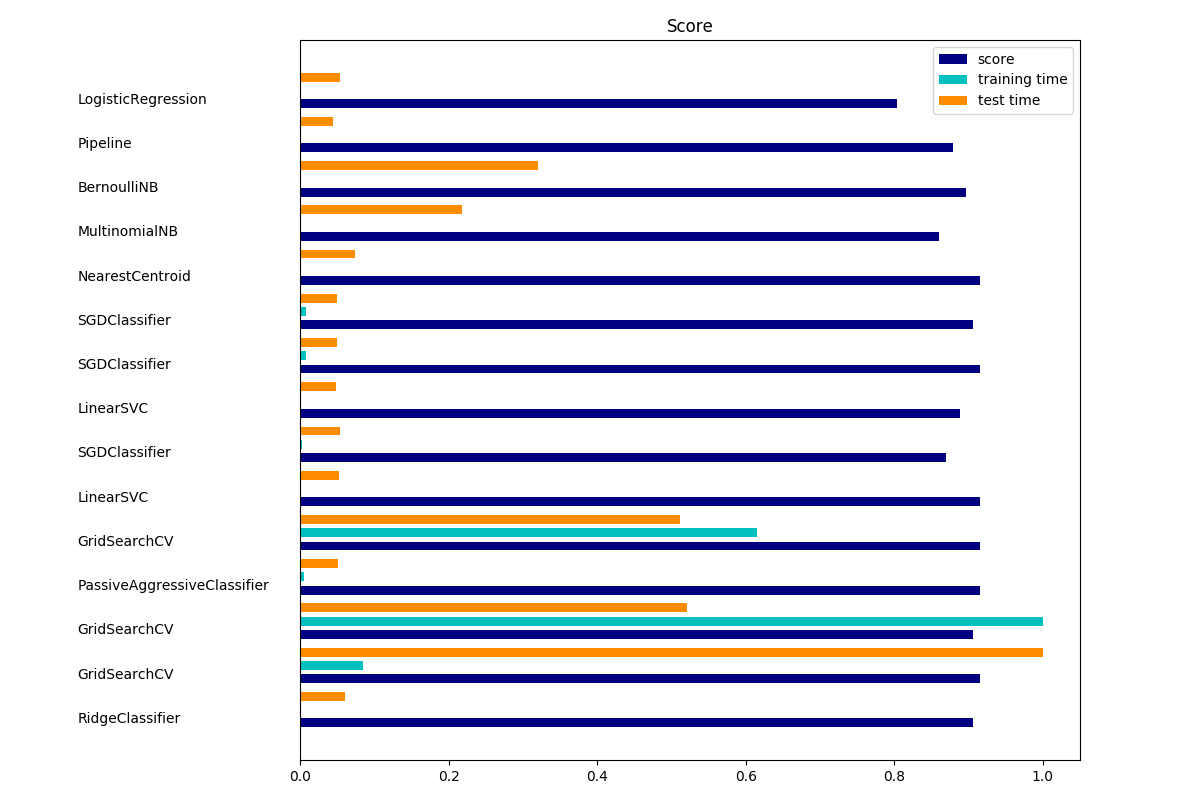
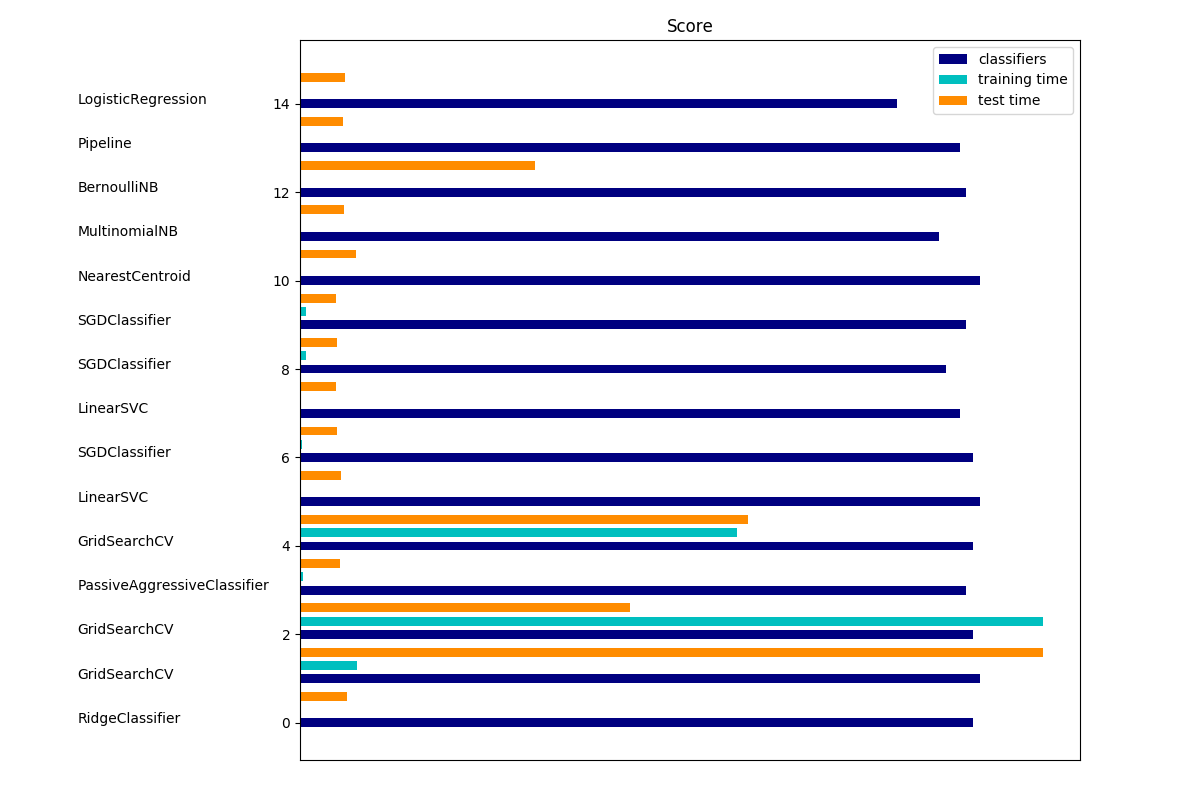
Pickle binary file save and load separate functions

diff --git a/Imli.py b/Imli.py
@@ -409,7 +409,7 @@ class Trainer:
 
         plt.figure(figsize=(12, 8))
         plt.title("Score")
-        plt.barh(indices, score, .2, label="score", color='navy')
+        plt.barh(indices, score, .2, label="classifiers", color='navy')
         plt.barh(indices + .3, training_time, .2, label="training time",
                  color='c')
         plt.barh(indices + .6, test_time, .2, label="test time", color='darkorange')
